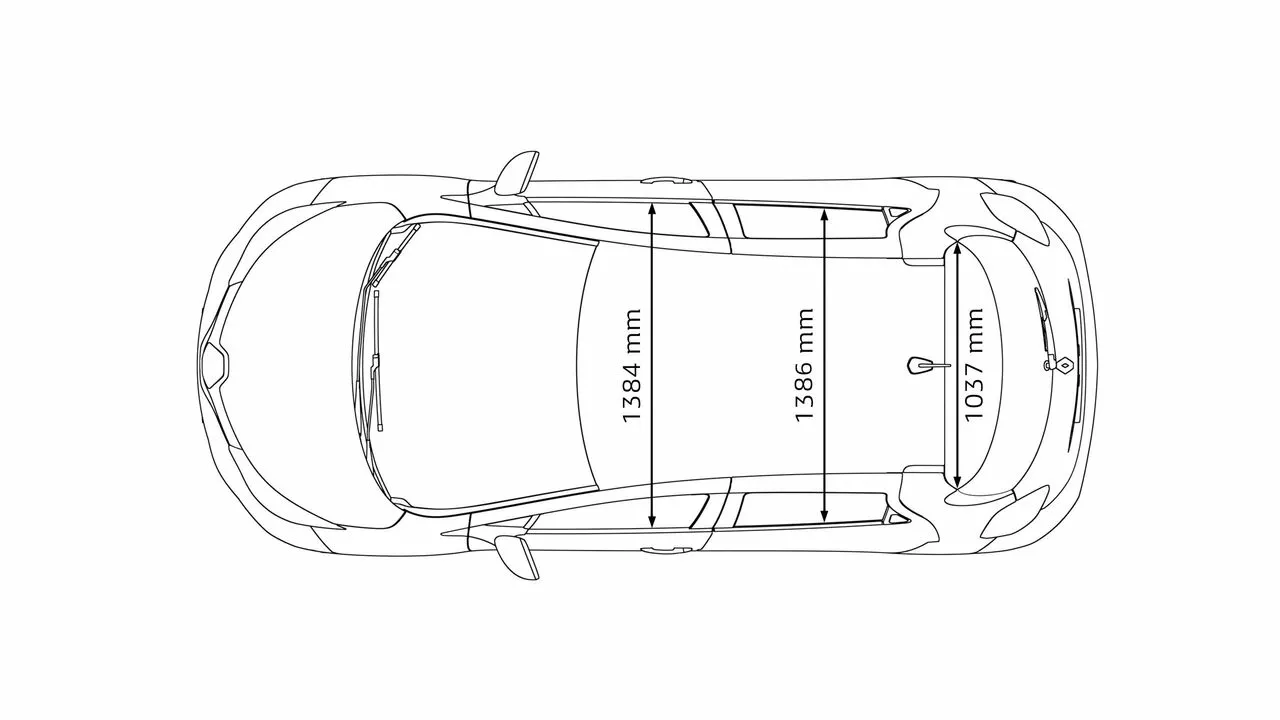
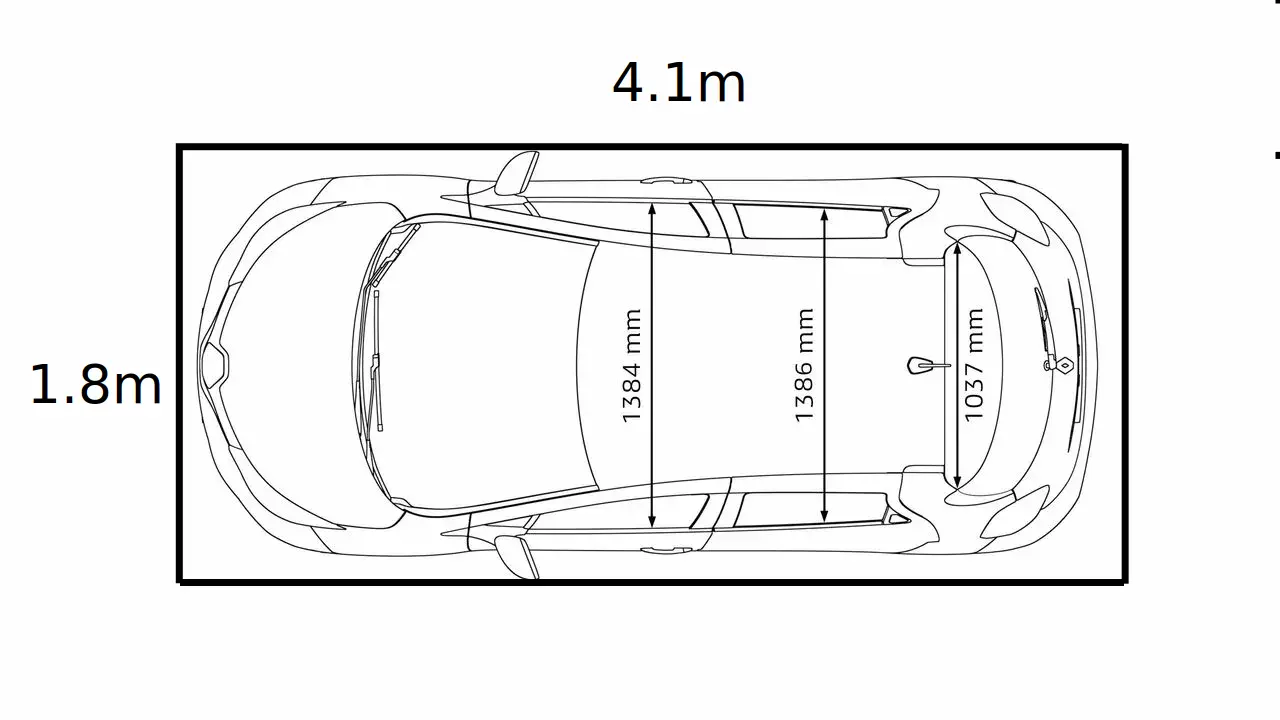
correction to hypothesis + scheme WIP

Changed region(s): [[0.0312, 0.1833, 0.9062, 0.825], [0.4688, 0.0917, 0.5938, 0.1528]]

diff --git a/fitness_demo.py b/fitness_demo.py
@@ -15,20 +15,26 @@ else:
 st.sidebar.button("Regenerate Results")
 
 st.sidebar.markdown("## 🗺 Navigation")
+st.sidebar.markdown("[📦 Fitness function](#fitness-function)")
 st.sidebar.markdown("[🔬 Hypothesis](#hypothesis)")
-st.sidebar.markdown("[🛤 Rail following score](#rail-following-score)")
+st.sidebar.markdown("[🛤 Path following score](#path-following-score)")
 st.sidebar.markdown("[🦺 Motion Safety score](#motion-safety-score)")
 st.sidebar.markdown("[🎯 Trajectory Quality](#trajectory-quality)")
 st.sidebar.markdown("[🚶 Pedestrian Confort Score](#pedestrian-confort-score)")
-st.sidebar.markdown("[📦 Fitness function](#fitness-function)")
+st.sidebar.markdown("[🎨 Scenario](#scenario)")
+st.sidebar.markdown("[📚 References](#reference)")
 
-st.title("📊 Fitness Function's Components")
-st.write("This page/notebook presents an approach for the fitness function to be used in our future work on reinforcement learning.")
-st.write("Each score falls within the range [-1, 1] to ensure clarity and prevent any single score from taking priority \
-         in the overall representation. To achieve this, all scores are derived from a modified sigmoid function \
-         tailored to effectively reward or penalize specific behaviors. Throughout the rest of the presentation, \
-         feel free to adjust some parameters or generate new scenarios to observe how the scores of each component \
-         evolve.")
+
+
+#Problem/Context
+st.title("Problem/Context")
+st.markdown('We Consider a shared space scenario where autonomous vehicles navigate among \
+            pedestrians. Given a predefined path leading to a goal destination within this shared space, the \
+            autonomous vehicle is tasked with adapting its driving behavior to ensure safety, avoid collisions with pedestrian, \
+            minimize disturbance to pedestrians and social groups, maintain smooth maneuvering, and adhere to the \
+            given path as closely as possible. The objective is *not merely to navigate around the crowd*, but rather \
+            to follow the specified path while dynamically adjusting its trajectory based on real-time situational \
+            awareness and environmental factors.')
 
 # Hypothesis
 st.header("🔬 Hypothesis", anchor="hypothesis")
@@ -36,50 +42,78 @@ st.header("🔬 Hypothesis", anchor="hypothesis")
 st.markdown("### 🚗 Car Hypothesis")
 st.markdown("- The autonomous vehicle (AV) is initially provided with a path to guide it through the scenario. This \
             path is described as a **list of waypoints**. Depending on the precision of the path that we wish to achieve, \
-            we can use different kinds of splines such as *Bezier curves, Hermite splines, or B-Splines*. However, \
+            we can get those waypoints using splines such as *Bezier curves, Hermite splines, or B-Splines*. However, \
             for simplicity, we will stick to **linear splines** for now, which are just a succession of straight lines.")
 spline_img = ['Bezier_forth_anim.gif', 'Hermite_spline.png', 'B_spline.png', 'linear_spline.png']
 st.image([f"{img_path}{name}" for name in spline_img], width=300, caption=['Bezier curve', 'Hermite spline', 'B-Spline', 'Linear spline'])
 
-st.markdown("- The AV can perceive the environment **through sensors**. These sensors provide the vehicle with information \
-        about the environment state, allowing it to decide on actions based on its policy.")
-st.markdown("- Although the AV can navigate in a 3D environment using Gazebo, our study will focus on a 2D representation \
-         to simplify learning and task modeling. Therefore, the environment will be represented as a rectangle. To \
-         maintain real-world proportions, we will use the dimensions of a standard Renault Zoe. [4.1x1.8m]")
-zoe_img = ['zoe1.webp', 'zoe2.webp', 'zoe3.webp']
-st.image([f"{img_path}{zoe}" for zoe in zoe_img], width=300)
+st.markdown("- The AV can perceive the environment **through sensors**. A good portion of the State of the Art \
+            in autonomous driving is based on the use of **LiDAR, RADAR, and cameras**. We choose to use \
+            a **LiDAR sensor** to detect pedestrians  as we don't need to identify them, only to detect them.\
+            With the LiDAR sensor, we will be able to represent the environment as a Occupancy Grid Map.\
+            We will do the Hypothesis that the LiDAR sensor can detect pedestrians in a **range of 20m** and a \
+            **field of view of 360°**.")
 
-st.markdown("- For the physical representation, we will use the **[kinematic bicycle model](https://thomasfermi.github.io/Algorithms-for-Automated-Driving/Control/BicycleModel.html)**. This \
-            will limit the vehicle's mobility enough to keep the simulation interesting, yet it \
-            will be simpler than other more complicated models.")
+st.markdown("- Although the AV can navigate in a 3D environment using Gazebo, our study will focus on a 2D representation \
+         to simplify learning and task modeling. Therefore, the AV will be represented as a rectangle. To \
+         maintain real-world proportions, we will use the dimensions of a standard Renault Zoe **[4.1x1.8m]**.")
+zoe_img = ['zoe1.webp', 'zoe2.webp', 'zoe3.webp']
+st.image([f"{img_path}{zoe}" for zoe in zoe_img], width=300) 
+
+st.markdown("- For the physical representation, we will use the **[kinematic bicycle model](https://thomasfermi.github.io/Algorithms-for-Automated-Driving/Control/BicycleModel.html)**. \
+            We  want to keep the model simple and easy to understand and we don't need to model the dynamics of the car.")
 st.image([f"{img_path}bicycle_model.png", f"{img_path}vehicle_dynamic.png"], caption=["", "Kabtoul, Maria, Anne Spalanzani, et Philippe Martinet. « Proactive And Smooth Maneuvering For Navigation Around Pedestrians ». In 2022 International Conference on Robotics and Automation (ICRA), 4723‑29. Philadelphia, PA, USA: IEEE, 2022. https://doi.org/10.1109/ICRA46639.2022.9812255"], width=400)
-st.markdown("- The limits speed for the AV is set to [-1, 4] m/s, and the maximum acceleration is set to [0.5,2] m/s².")
+st.markdown("- To enhance the realism of our model and guarantee safe driving behavior, the limits speed for the AV is set \
+            to **[-1, 4] m/s**, and the maximum acceleration is set to **[-0.5,2] m/s²**. We grant the AV the ability to \
+            go **backward** to explore pentential behaviors but we may refine this behavior to only go forward.")
 
 # Pedestrian Hypothesis
 st.markdown("### 🚶 Pedestrian Hypothesis")
-st.markdown("- Pedestrians are represented as **circle** in the environment. They can move freely within the \
-            environment, and their positions are updated at each time step.")
+st.markdown("- Pedestrians can move freely within the environment, and their positions are updated at each time step.\
+            In the simulator, they will be represented as circles with a radius of 0.3m. The circle representation \
+            provide a good approximation of the space occupied by pedestrians (In a top-down perspective, a \
+            pedestrian can rotate around the center, here the head). ")
 st.markdown("- Pedestians have their own model to move and this model is based on the **Social Force Model** \
-            which is a physics-based model that simulates the movement of pedestrians in a crowd. \
-            This model can be access by the AV to predict the pedestrian movement.")
+            which is a computational framework used to simulate the movement of individuals within a crowd by \
+            modeling the interactions between them as forces. It describes how pedestrians navigate through a \
+            space by considering factors such as attraction between groups and repulsion from obstacles. \
+            The AV has prior knowledge of the pedestrian's model and use it to predict their movements and adapt its \
+            trajectory accordingly.")
 st.markdown("- The pedestrians will walk with a prefered speed of 1.5 m/s but we may refine this values to \
-            follow a normal distribution with a mean of 1.5 m/s and a standard deviation of 0.5 m/s.")
+            follow a normal distribution as $\mathcal{N}(1.5, 0.5)$.")
 
-# Rail following score
-st.header("🛤 Rail following score", anchor="rail-following-score")
+# Fitness function
+st.header("📊 Fitness Function's Components", anchor="fitness-function")
+st.markdown("To address our problem effectively, we require a comprehensive function to assess the behavior \
+            and decisions made by our agent. In essence, our focus lies on four core aspects crucial for vehicle \
+            operation: **safety, collision avoidance with pedestrians, minimizing disruption to pedestrians and social \
+            groups, ensuring smooth maneuvering, and adhering closely to the prescribed path**. To achieve this, we \
+            decompose our function into four distinct components that can be tuned and refined independently.")
+st.markdown("We name this function ($f$). Each criterion is weighted by a corresponding coefficient ($c_{fr}$, $c_{s}$, $c_{pc}$, \
+            $c_{t}$) to reflect its importance in the overall evaluation process. The fitness function is defined as \
+            follows:")
+st.markdown(r"> $$f = c_{fr} \cdot R_c + c_{s} \cdot S_c + c_{pc} \cdot P_c + c_{t} \cdot T_c$$")
+st.markdown("Here, $R_c$, $R_s$, $R_{pc}$, and $R_t$ represent the scores obtained for Path following, \
+            safety, pedestrian comfort, and trajectory quality, respectively. These scores are computed based \
+            on the corresponding evaluation criteria.**Each component falls within the range $[-1, 1]$** to ensure clarity and prevent any single score from taking priority \
+         in the overall representation. To achieve this, all scores are derived from a modified sigmoid function \
+         tailored to effectively reward or penalize specific behaviors.The resulting fitness score ($f$) falls \
+            within the range $[-4, 4]$, with higher values indicating better overall performance of the navigation system.")
+# Path following score
+st.header("🛤 Path following score", anchor="path-following-score")
 
-st.markdown("> 📌 **Side note**: This metric is inspired by path following in the context of autonomous agents. **To my knowledge**, no paper has utilized this specific metric.")
+st.markdown("> 📌 **Side note**: This metric is inspired by path following in the context of autonomous agents.")
 
-st.markdown("The rail following score represents the distance between the initially given path to the autonomous \
+st.markdown("The path following score represents the distance between the initially given path to the autonomous \
             vehicle (AV) and its future position.\
              In this context, the variables $d_p$ and $d$ represent the penalty distance and the distance between \
-            the AV and the rail, respectively. The formula used to calculate the rail following score ($R_c$) is \
+            the AV and the path, respectively. The formula used to calculate the path following score ($R_c$) is \
             given by:")
 st.markdown(r"> $$R_c = 1-\frac{2}{1+e^{-d + d_p}}$$")
-st.markdown("This formula provides a measure of how closely the AV is following the rail, with higher values \
+st.markdown("This formula provides a measure of how closely the AV is following the path, with higher values \
             of $R_c$ indicating better adherence to the track.")
 
-st.image(f"{img_path}rail_illustration.png", caption = "illustration from Nature of Code by Daniel Shiffman",  use_column_width=True)
+st.image(f"{img_path}path_following_illustration.png", use_column_width=True)
 
 # Plot
 max_distance_display = 20
@@ -89,9 +123,9 @@ Rc =1-2 / (1 + np.exp(-d + penalty_distance))
 fig , ax = plt.subplots(1, 2 , figsize=(10, 5))
 
 ax[1].plot(d, Rc)
-ax[1].set_xlabel('distance between the future position and the rail')
+ax[1].set_xlabel('distance between the future position and the path')
 ax[1].set_ylabel('Reward')
-ax[1].set_title('Reward function for the rail')
+ax[1].set_title('Reward function for path following')
 ax[1].xaxis.set_ticks(np.arange(0, max_distance_display+1, 5))
 ax[1].grid(True, linewidth=0.5, linestyle='--')
 ax[1].set_xlim(0, max_distance_display)
@@ -109,7 +143,7 @@ normal_point = path[0] + d * b / np.linalg.norm(b)
 distance_to_rail = np.linalg.norm(futur_point - normal_point)
 Rc = 1 - 2 / (1 + np.exp(-distance_to_rail + penalty_distance))
 ax[1].axvline(distance_to_rail, color='r', linestyle='--')
-ax[1].annotate(f'Distance to rail: {distance_to_rail:.2f}\n Rail reward: {Rc:.2f}',
+ax[1].annotate(f'Distance to path: {distance_to_rail:.2f}\n path following reward: {Rc:.2f}',
                 (distance_to_rail + 1, 0.5))
 
 ax[0].plot(path[:, 0], path[:, 1], 'r')
@@ -326,21 +360,8 @@ st.markdown("Following some advice, the best option to evaluate the comfort leve
             pedestrians are in their movements. Another idea would be to use the number of points added in \
             Alexis' physical model (the one with springs to constrain pedestrians).")
 
-
-# Fitness function
-st.header("📦 Fitness function", anchor="fitness-function")
-st.markdown("The fitness function ($f$) for evaluating the performance of an autonomous navigation \
-            system integrates multiple criteria, including rail following, safety, pedestrian comfort, and \
-            trajectory quality. Each criterion is weighted by a corresponding coefficient ($c_{fr}$, $c_{s}$, $c_{pc}$, \
-            $c_{t}$) to reflect its importance in the overall evaluation process. The fitness function is defined as \
-            follows:")
-st.markdown(r"> $$f = c_{fr} \cdot R_c + c_{s} \cdot S_c + c_{pc} \cdot P_c + c_{t} \cdot T_c$$")
-st.markdown("Here, $R_c$, $R_s$, $R_{pc}$, and $R_t$ represent the scores obtained for rail following, \
-            safety, pedestrian comfort, and trajectory quality, respectively. These scores are computed based \
-            on the corresponding evaluation criteria. The resulting fitness score ($f$) falls within the \
-            range $[-4, 4]$, with higher values indicating better overall performance of the navigation system.")
 # Senario
-st.markdown("## 🎨 Scenario")
+st.header("🎨 Scenario", anchor="scenario")
 st.markdown("To conduct our experiments effectively, we are creating five scenarios to \
             observe the results of our model in different dynamic environments. Most of \
             these scenarios are inspired by the article *[Kabtoul, Maria, Manon Prédhumeau, \
@@ -379,3 +400,5 @@ video_file = open(f'{img_path}illustration_senario.mp4', 'rb')
 video_file = video_file.read()
 st.video(video_file)
 st.write('Link to the full video: [Illustration of the scenarios](https://www.youtube.com/watch?v=DLaMMedWFn8)')
+
+st.header("📚 References", anchor="reference")
